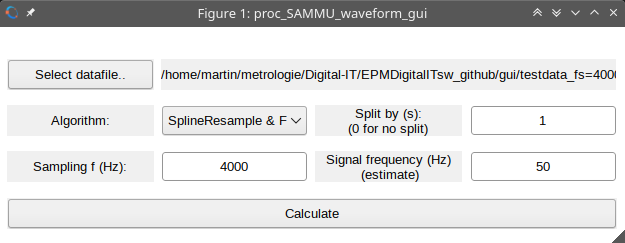
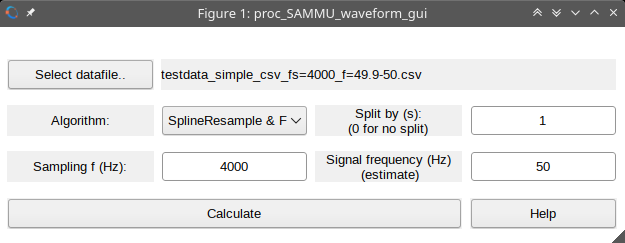
add: gui: added help button

diff --git a/gui/proc_SAMMU_waveform_gui.m b/gui/proc_SAMMU_waveform_gui.m
@@ -361,7 +361,17 @@ function make_gui(welcome_message) %<<<2
                         'callback',  @b_calc_callback, ...
                         'units',     'characters', ...
                         'tooltipstring', sprintf('Start the calculations.\nFill all inputs before pushing this button.'), ...
-                        'position',  uigrid_position(uig, 4));
+                        'position',  uigrid_position(uig, 3));
+
+    uig.col = uig.col + 3;
+    % button Help
+    b_help = uicontrol (f_main, ...
+                        'tag',      'b_help', ...
+                        'string',    'Help', ...
+                        'callback',  @b_help_callback, ...
+                        'units',     'characters', ...
+                        'tooltipstring', sprintf('Show help in web browser.'), ...
+                        'position',  uigrid_position(uig));
 
     % show welcome message about successful install if required:
     if welcome_message
@@ -509,6 +519,12 @@ function b_calc_callback(~, ~) %<<<2
     proc_SAMMU_waveform(udata)
 
 end % function b_calc_callback
+
+function b_help_callback(~, ~) %<<<2
+% What happens when button Help is pressed
+% open web page, hardcoded
+web('https://github.com/KaeroDot/EPMDigitalITsw/blob/main/gui/proc_SAMMU_waveform_gui_help.md', '-browser')
+end % function b_help_callback
 
 function h = find_h_by_tag(tag) %<<<2
 % finds handle to uicontrol defined by a value in tag

diff --git a/gui/proc_SAMMU_waveform_gui_help.md b/gui/proc_SAMMU_waveform_gui_help.md
@@ -52,6 +52,7 @@ Main window:
   signal frequency, that is used in the calculation algorithms. E.g. for power
   measurement 50 Hz is sufficient estimate.
 - Button "Calculate" runs the calculation.
+- Button "Help" shows this help.
 
 ## Data file formats
 The script can process data files with the following content:
